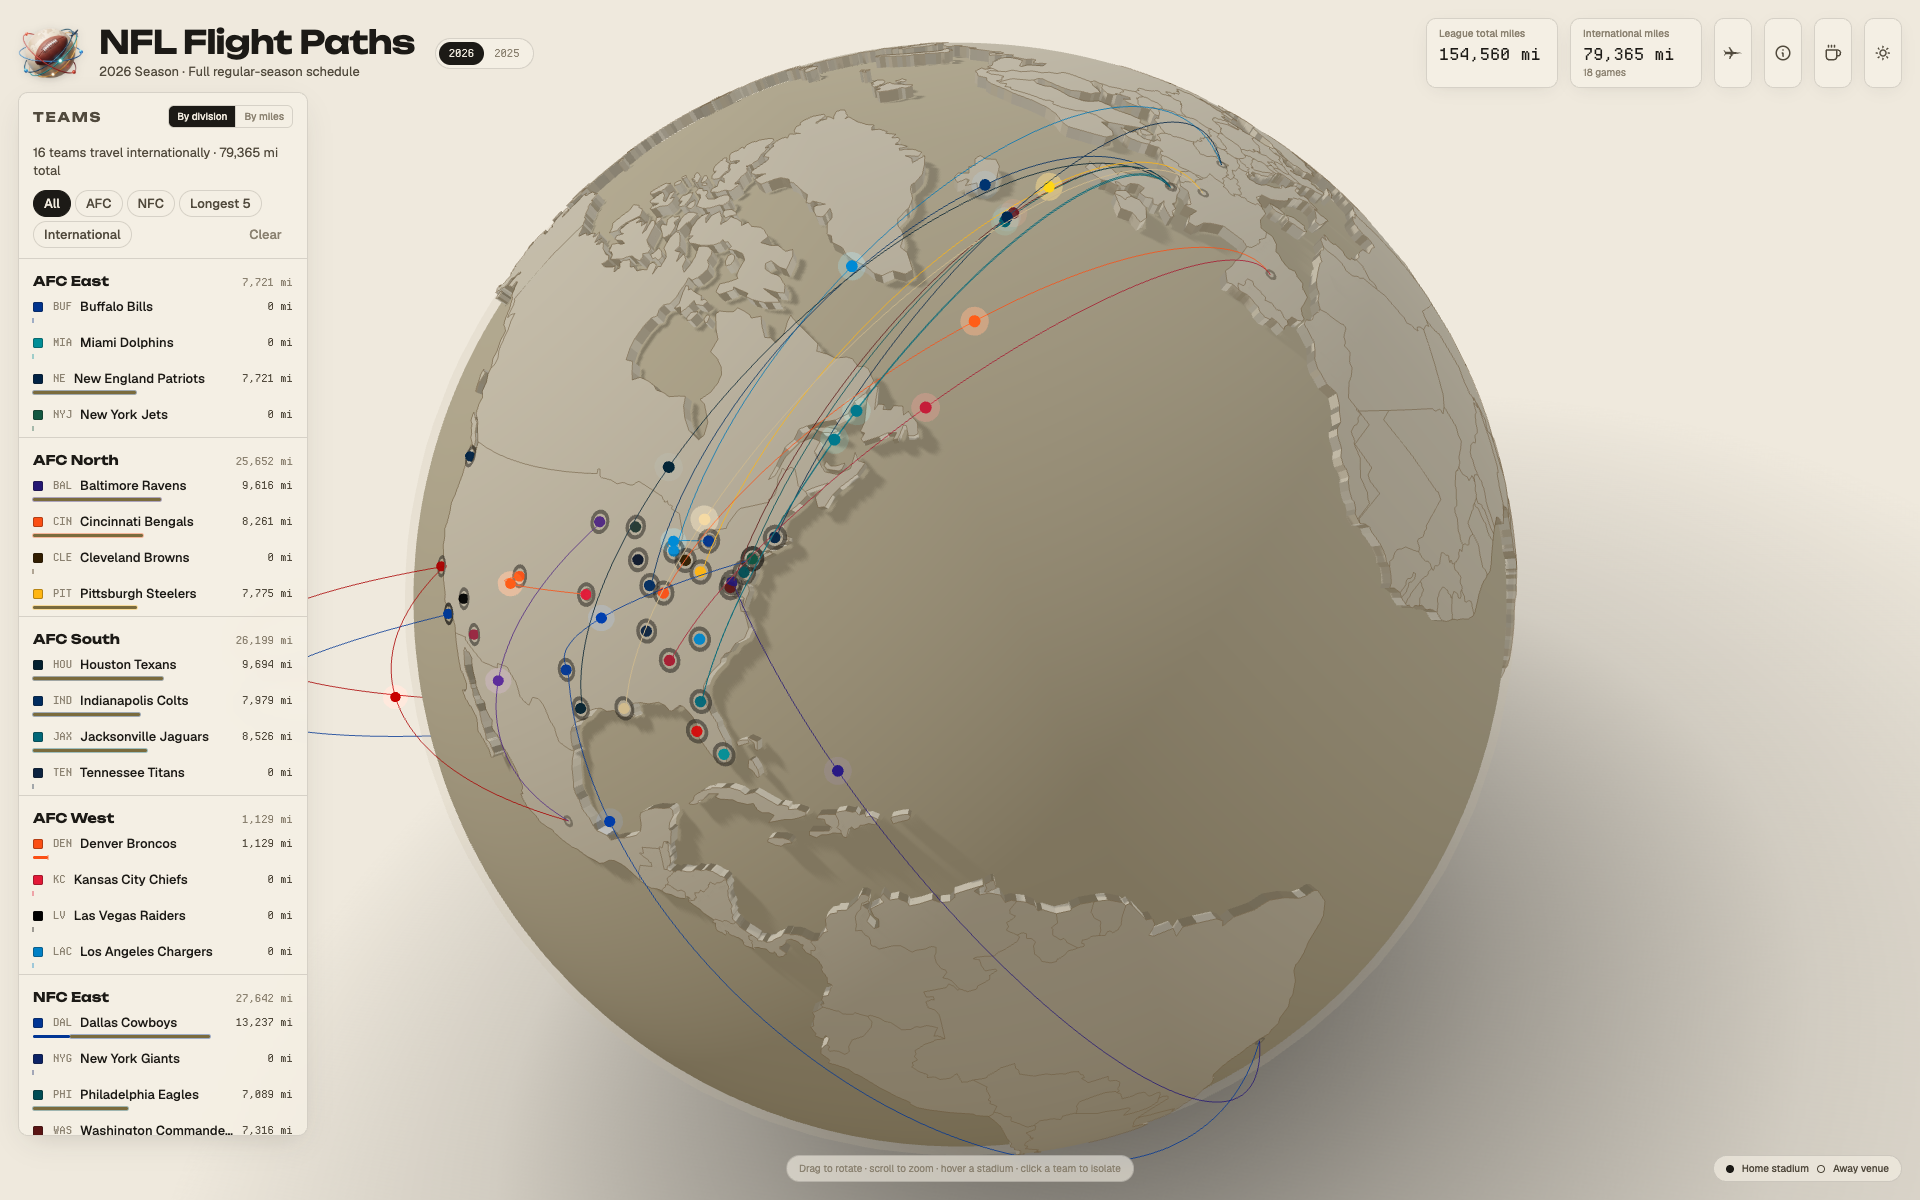
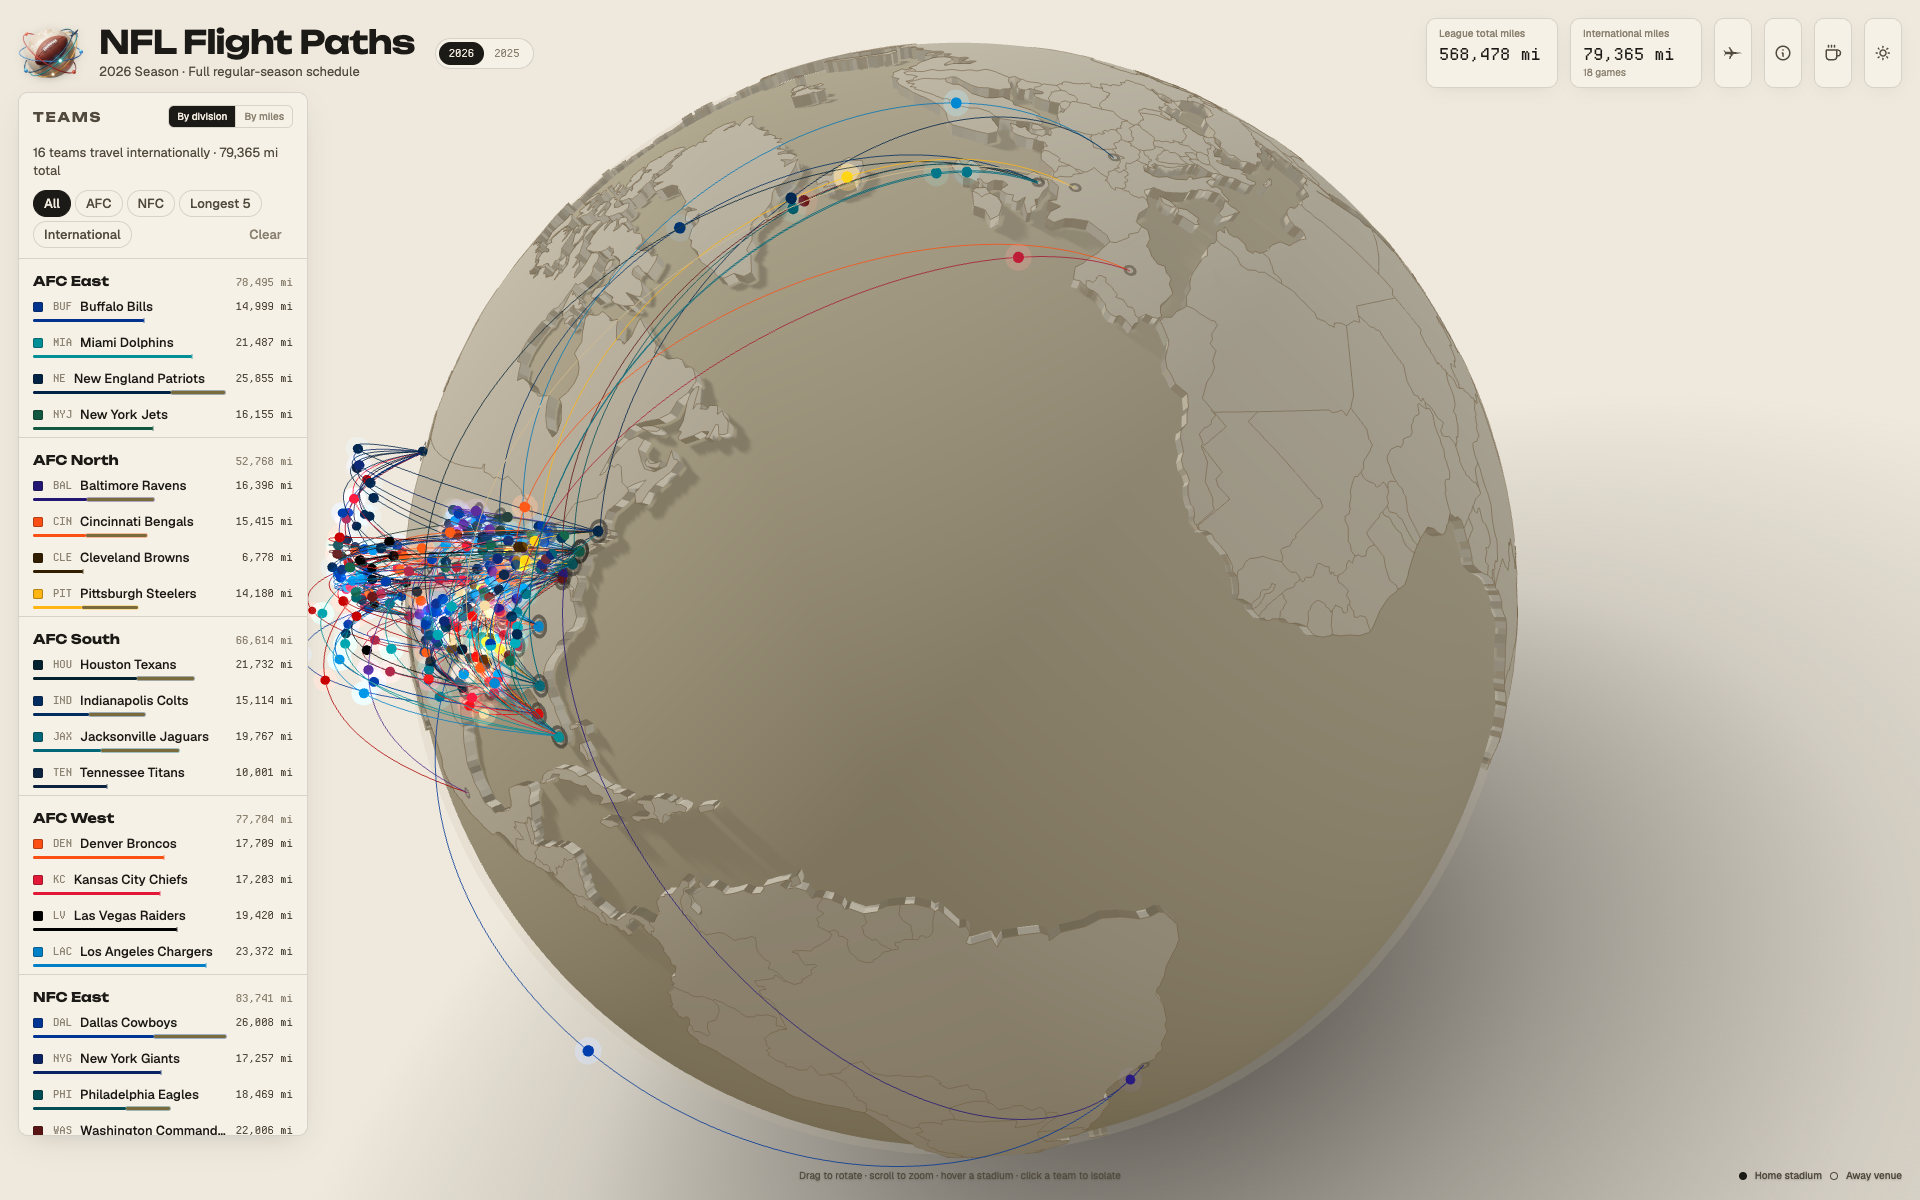
Distill chrome from 8 frosted panels to 2 modal scrims
Every floating HUD element shared the same `--paper-trans` + `backdrop-filter`
recipe — season switch, metric chips, theme toggle, panel, hint, legend,
stadium tooltip, methodology + mileage scrims. The brand-bans list calls
glassmorphism "rare and purposeful, or nothing," and the result was that
every piece of chrome looked materially interchangeable on top of fighting
legibility on the panel's right edge where it overlapped the globe.

Differentiate by role instead of visual sameness:

- Modal scrims keep the blur (the one legitimate use)
- Topbar chips, panel, and stadium tooltip move to solid --paper cards;
  the existing per-surface box-shadow scale stays as the depth grammar
- Hint + legend drop their pills entirely and become inline text with a
  text-shadow tuned off the existing --shadow token

`--paper-trans` is gone; `--paper-soft` stays for the stadium-tooltip
photo shimmer gradient.

README screenshots re-captured at 1920×1200 — also pick up the full 2026
slate backfilled in c530eb5 (league total now 568,478 mi vs the previous
154,560 partial).

diff --git a/styles.css b/styles.css
@@ -42,7 +42,6 @@
   --bg: #efe9dd;
   --bg-deep: #e6dfd0;
   --paper: #f6f1e6;
-  --paper-trans: rgba(246, 241, 230, 0.78);
   --paper-soft: rgba(246, 241, 230, 0.6);
   --ink: #1c1a16;
   --ink-soft: #514a3d;
@@ -60,7 +59,6 @@
   --bg: #0f0d0a;
   --bg-deep: #070604;
   --paper: #1a1612;
-  --paper-trans: rgba(26, 22, 18, 0.82);
   --paper-soft: rgba(26, 22, 18, 0.6);
   --ink: #f3ecd6;
   --ink-soft: #c4b89a;
@@ -182,9 +180,7 @@ img.topbar__mark {
 
 .season-switch {
   display: inline-flex;
-  background: var(--paper-trans);
-  backdrop-filter: blur(8px);
-  -webkit-backdrop-filter: blur(8px);
+  background: var(--paper);
   border: 1px solid var(--line);
   border-radius: 999px;
   padding: 3px;
@@ -225,9 +221,7 @@ img.topbar__mark {
 }
 
 .metric {
-  background: var(--paper-trans);
-  backdrop-filter: blur(8px);
-  -webkit-backdrop-filter: blur(8px);
+  background: var(--paper);
   border: 1px solid var(--line);
   border-radius: var(--radius);
   padding: 8px 12px;
@@ -263,9 +257,7 @@ img.topbar__mark {
 
 /* ── Theme toggle ───────────────────────────────────────────── */
 .theme-toggle {
-  background: var(--paper-trans);
-  backdrop-filter: blur(8px);
-  -webkit-backdrop-filter: blur(8px);
+  background: var(--paper);
   border: 1px solid var(--line);
   border-radius: var(--radius);
   width: 38px;
@@ -320,9 +312,7 @@ img.topbar__mark {
   left: 18px;
   bottom: 64px;
   width: 290px;
-  background: var(--paper-trans);
-  backdrop-filter: blur(10px);
-  -webkit-backdrop-filter: blur(10px);
+  background: var(--paper);
   border: 1px solid var(--line);
   border-radius: var(--radius);
   box-shadow: 0 10px 30px -10px var(--shadow);
@@ -629,14 +619,10 @@ img.topbar__mark {
   transform: translateX(-50%);
   font-size: var(--text-micro);
   font-weight: 400;
-  color: var(--ink-mute);
+  color: var(--ink-soft);
+  text-shadow: 0 1px 2px var(--shadow);
   z-index: 3;
   pointer-events: none;
-  background: var(--paper-soft);
-  backdrop-filter: blur(6px);
-  padding: 6px 12px;
-  border-radius: 999px;
-  border: 1px solid var(--line);
 }
 
 .legend {
@@ -648,11 +634,7 @@ img.topbar__mark {
   gap: 8px;
   font-size: var(--text-micro);
   color: var(--ink-soft);
-  background: var(--paper-soft);
-  backdrop-filter: blur(6px);
-  padding: 6px 12px;
-  border-radius: 999px;
-  border: 1px solid var(--line);
+  text-shadow: 0 1px 2px var(--shadow);
   z-index: 3;
 }
 
@@ -731,13 +713,11 @@ img.topbar__mark {
   pointer-events: none;
   z-index: 50;
   width: 240px;
-  background: var(--paper-trans);
+  background: var(--paper);
   color: var(--ink);
   border: 1px solid var(--line);
   border-radius: var(--radius);
   box-shadow: 0 14px 40px -16px var(--shadow);
-  backdrop-filter: blur(12px);
-  -webkit-backdrop-filter: blur(12px);
   overflow: hidden;
   opacity: 0;
   transform: translate(-50%, -100%);
